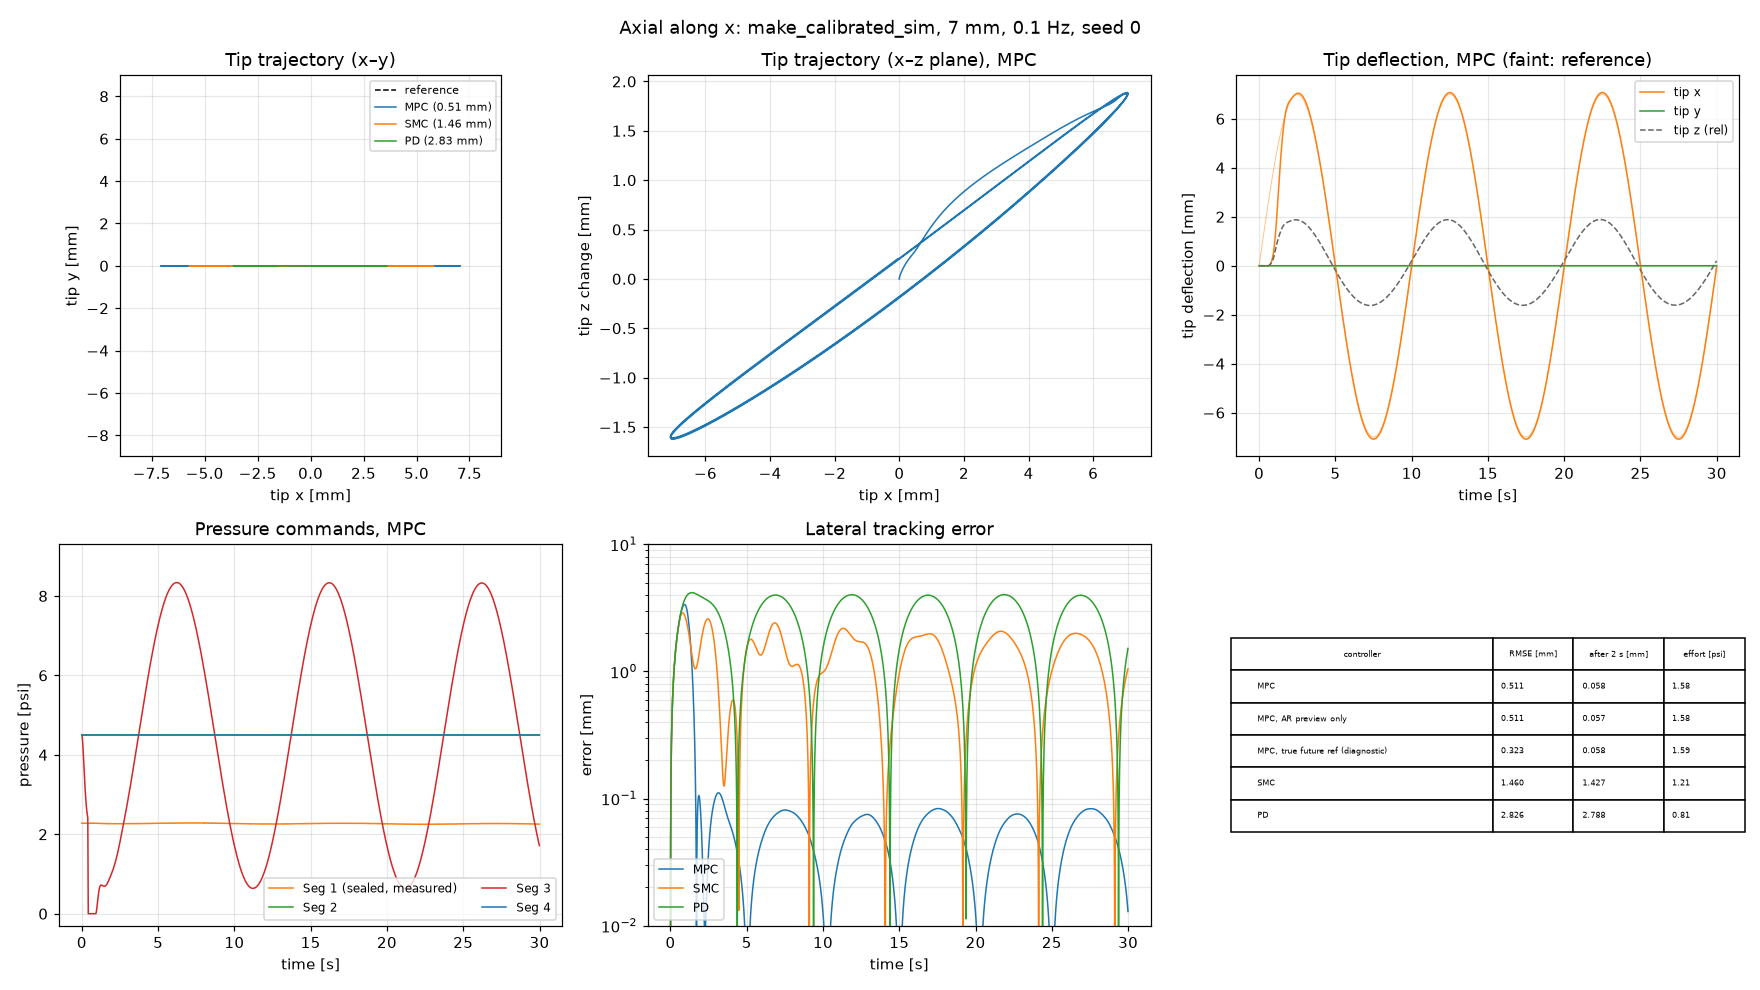
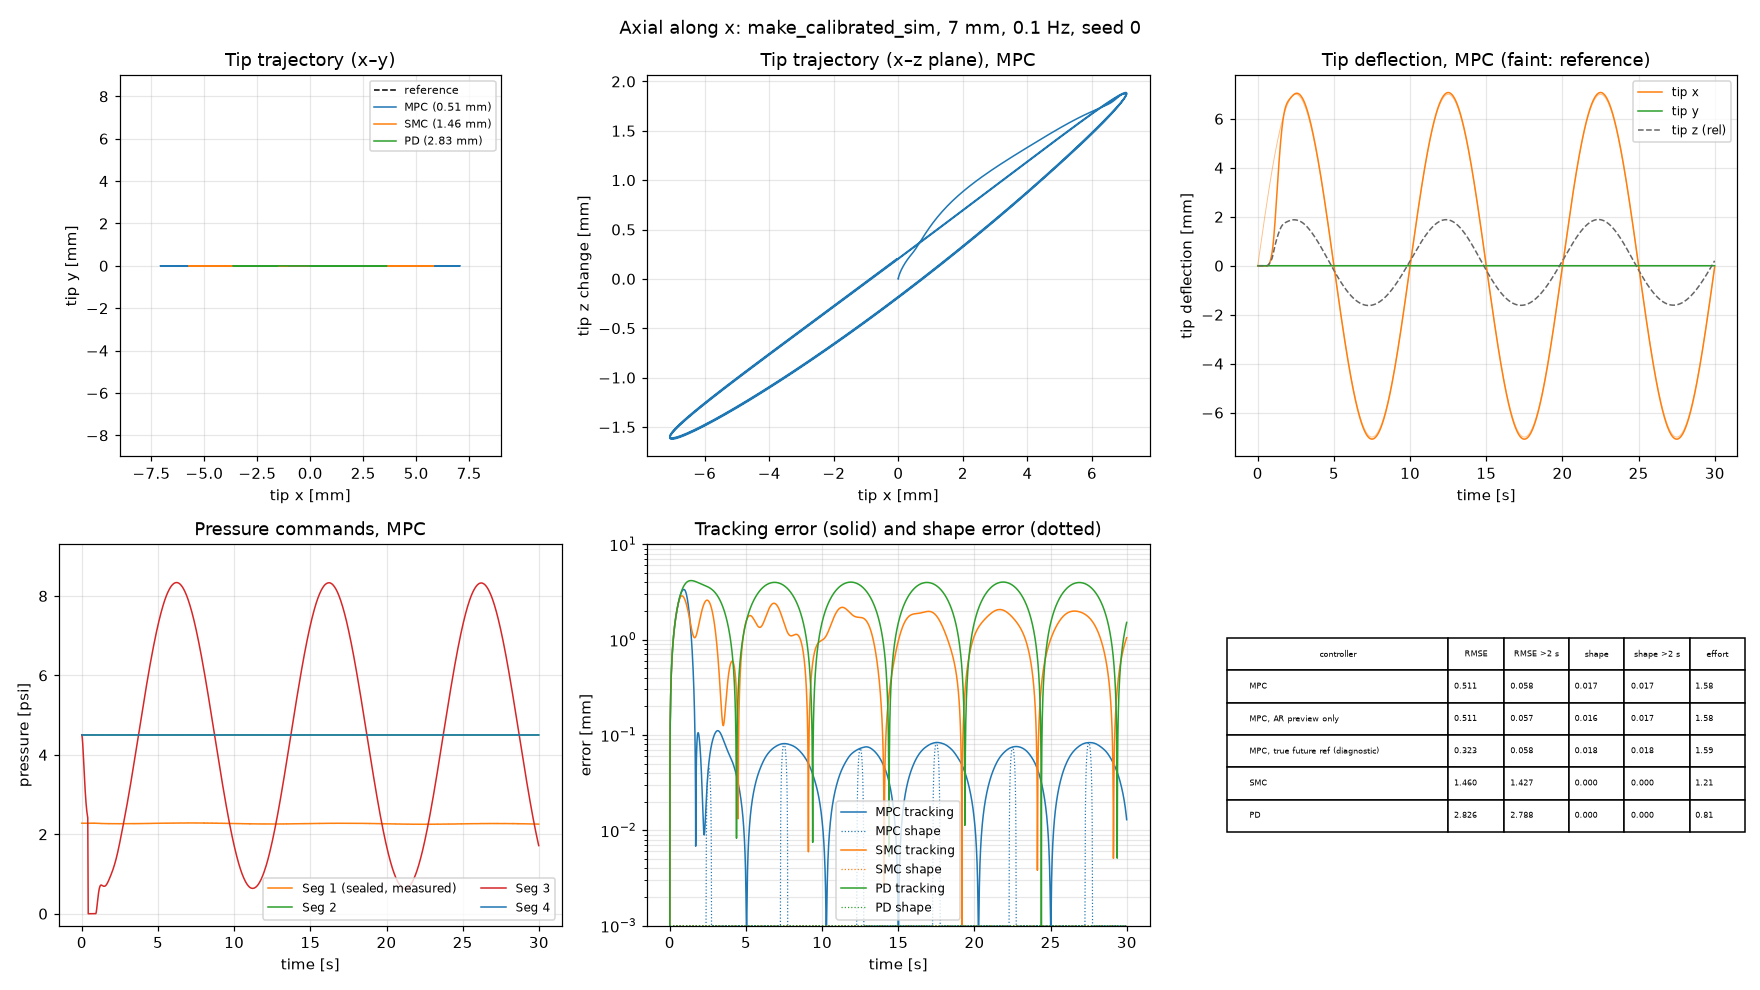
Report shape error in the motion tests
Shape error is the distance from each tip sample to the nearest point of the
reference path (one period, polyline), ignoring timing. It separates tracing the
right shape late from tracing the wrong shape. After the first 2 s the MPC's
circle shape error is 0.046 mm RMS (SMC 1.63, PD 3.33); on the triangle 0.48 mm
(SMC 0.98, PD 1.69). The figures plot it dotted next to the tracking error.

diff --git a/scripts/motion_tests.py b/scripts/motion_tests.py
@@ -83,10 +83,32 @@ def run(make_ctrl, ref_fn, seed: int = 0) -> dict:
     finally:
         sim.close()
     lat = np.linalg.norm(tips[:, :2] - refs[:, :2], axis=1) * 1000
+    shape = shape_error(tips[:, :2], ref_fn, home)
+    tail = slice(int(2 * TASK.control_hz), None)
     return {"rmse": float(np.sqrt(np.mean(lat ** 2))), "max": float(lat.max()), "lat": lat,
+            "shape": shape, "shape_rms": float(np.sqrt(np.mean(shape ** 2))),
+            "shape_rms_tail": float(np.sqrt(np.mean(shape[tail] ** 2))), "shape_max_tail": float(shape[tail].max()),
             "effort": float(np.sqrt(np.mean((cmds - baseline) ** 2))), "tips": tips, "refs": refs,
             "cmds": cmds, "s1": s1, "home": home, "err_xy": (tips[:, :2] - refs[:, :2]) * 1000,
             "dz": (tips[:, 2] - home[2]) * 1000}
+
+
+def shape_error(tips_xy: np.ndarray, ref_fn, home: np.ndarray) -> np.ndarray:
+    """Distance [mm] from each tip sample to the nearest point of the reference path,
+    ignoring timing. The path is one period of the reference, as a polyline sampled every
+    5 ms, and the distance is to the nearest segment."""
+    t = np.arange(0.0, 1.0 / TASK.frequency_hz + 0.005, 0.005)
+    path = np.array([ref_fn(home, tk)[:2] for tk in t])
+    a, b = path[:-1], path[1:]
+    ab = b - a
+    L2 = np.maximum((ab ** 2).sum(1), 1e-30)
+    out = np.empty(len(tips_xy))
+    for i in range(0, len(tips_xy), 500):            # chunks keep the distance matrix small
+        p = tips_xy[i:i + 500, None, :]
+        s = np.clip(((p - a) * ab).sum(2) / L2, 0.0, 1.0)
+        d = np.linalg.norm(p - (a + s[..., None] * ab), axis=2)
+        out[i:i + 500] = d.min(1)
+    return out * 1000
 
 
 def controllers() -> dict:
@@ -103,7 +125,8 @@ def controllers() -> dict:
 
 def main() -> None:
     ctrls = controllers()
-    print("make_calibrated_sim, seed 0; 7 mm, 0.1 Hz, 30 s; lateral RMSE / max [mm], effort [psi]")
+    print("make_calibrated_sim, seed 0; 7 mm, 0.1 Hz, 30 s; lateral RMSE / max [mm], effort [psi]; "
+          "shape error RMS (whole run / after 2 s) and max after 2 s [mm]")
     results = {}
     for motion, ref_fn in MOTIONS.items():
         print(f"  {motion}")
@@ -120,7 +143,8 @@ def main() -> None:
             elif motion == "triangle":
                 tail = slice(int(2 * TASK.control_hz), None)
                 extra = f"; after 2 s {np.sqrt(np.mean(r['lat'][tail] ** 2)):.3f} mm"
-            print(f"    {name:<36}{r['rmse']:7.3f} {r['max']:6.2f} {r['effort']:6.2f}{extra}")
+            print(f"    {name:<36}{r['rmse']:7.3f} {r['max']:6.2f} {r['effort']:6.2f}  shape {r['shape_rms']:.3f} / "
+                  f"{r['shape_rms_tail']:.3f}, max {r['shape_max_tail']:.3f}{extra}")
     harness = mpc.evaluate(lambda: mpc.DelayMPCController()).rmse_mm
     print(f"  check: harness MPC on the circle {harness:.6f} mm vs this loop "
           f"{results[('circle (harness check)', 'MPC')]['rmse']:.6f} mm")
@@ -178,18 +202,22 @@ def motion_figure(motion: str, results: dict, out: Path) -> None:
 
     a = ax[1, 1]
     for name, col in colors.items():
-        a.semilogy(t, np.maximum(results[(motion, name)]["lat"], 1e-3), col, lw=1, label=name)
-    a.set(title="Lateral tracking error", xlabel="time [s]", ylabel="error [mm]", ylim=(1e-2, 10))
+        a.semilogy(t, np.maximum(results[(motion, name)]["lat"], 1e-3), col, lw=1, label=f"{name} tracking")
+        a.semilogy(t, np.maximum(results[(motion, name)]["shape"], 1e-3), col, lw=0.8, ls=":",
+                   label=f"{name} shape")
+    a.set(title="Tracking error (solid) and shape error (dotted)", xlabel="time [s]", ylabel="error [mm]",
+          ylim=(1e-3, 10))
     a.legend(fontsize=8)
 
     a = ax[1, 2]
     a.axis("off")
     rows = [(n, results[(motion, n)]) for n in ("MPC", "MPC, AR preview only", "MPC, true future ref (diagnostic)",
                                                "SMC", "PD")]
-    a.table(cellText=[[n, f"{r['rmse']:.3f}", f"{np.sqrt(np.mean(r['lat'][200:] ** 2)):.3f}", f"{r['effort']:.2f}"]
+    a.table(cellText=[[n, f"{r['rmse']:.3f}", f"{np.sqrt(np.mean(r['lat'][200:] ** 2)):.3f}", f"{r['shape_rms']:.3f}",
+                       f"{r['shape_rms_tail']:.3f}", f"{r['effort']:.2f}"]
                       for n, r in rows],
-            colLabels=["controller", "RMSE [mm]", "after 2 s [mm]", "effort [psi]"], loc="center",
-            cellLoc="left", colWidths=[0.52, 0.16, 0.18, 0.16]).scale(1, 1.6)
+            colLabels=["controller", "RMSE", "RMSE >2 s", "shape", "shape >2 s", "effort"], loc="center",
+            cellLoc="left", colWidths=[0.44, 0.11, 0.13, 0.11, 0.13, 0.11]).scale(1, 1.6)
     for a in ax.flat[:5]:
         a.grid(True, which="both", alpha=0.3)
     fig.suptitle(f"{motion.capitalize()}: make_calibrated_sim, 7 mm, 0.1 Hz, seed 0")

diff --git a/docs/log.md b/docs/log.md
@@ -3,6 +3,15 @@
 Newest first. Record decisions, findings and open questions here so the next
 person (or agent) can pick up without asking. Keep entries short and dated.
 
+## 2026-10-28
+
+- `motion_tests.py` also reports the shape error: the distance from each tip sample to the
+  nearest point of the reference path, ignoring timing. After the first 2 s (RMS):
+  circle MPC 0.046 mm (SMC 1.63, PD 3.33); triangle 0.48 (0.98, 1.69), where the MPC's
+  first lap before period detection dominates (0.042 with the true future reference).
+  For axial motion the path is a line, so the shape error only measures off-axis
+  deviation (0.000–0.017 mm for every controller) and says nothing about timing.
+
 ## 2026-10-26
 
 - Motion tests (`scripts/motion_tests.py`) for the course slides' triangular and axial
